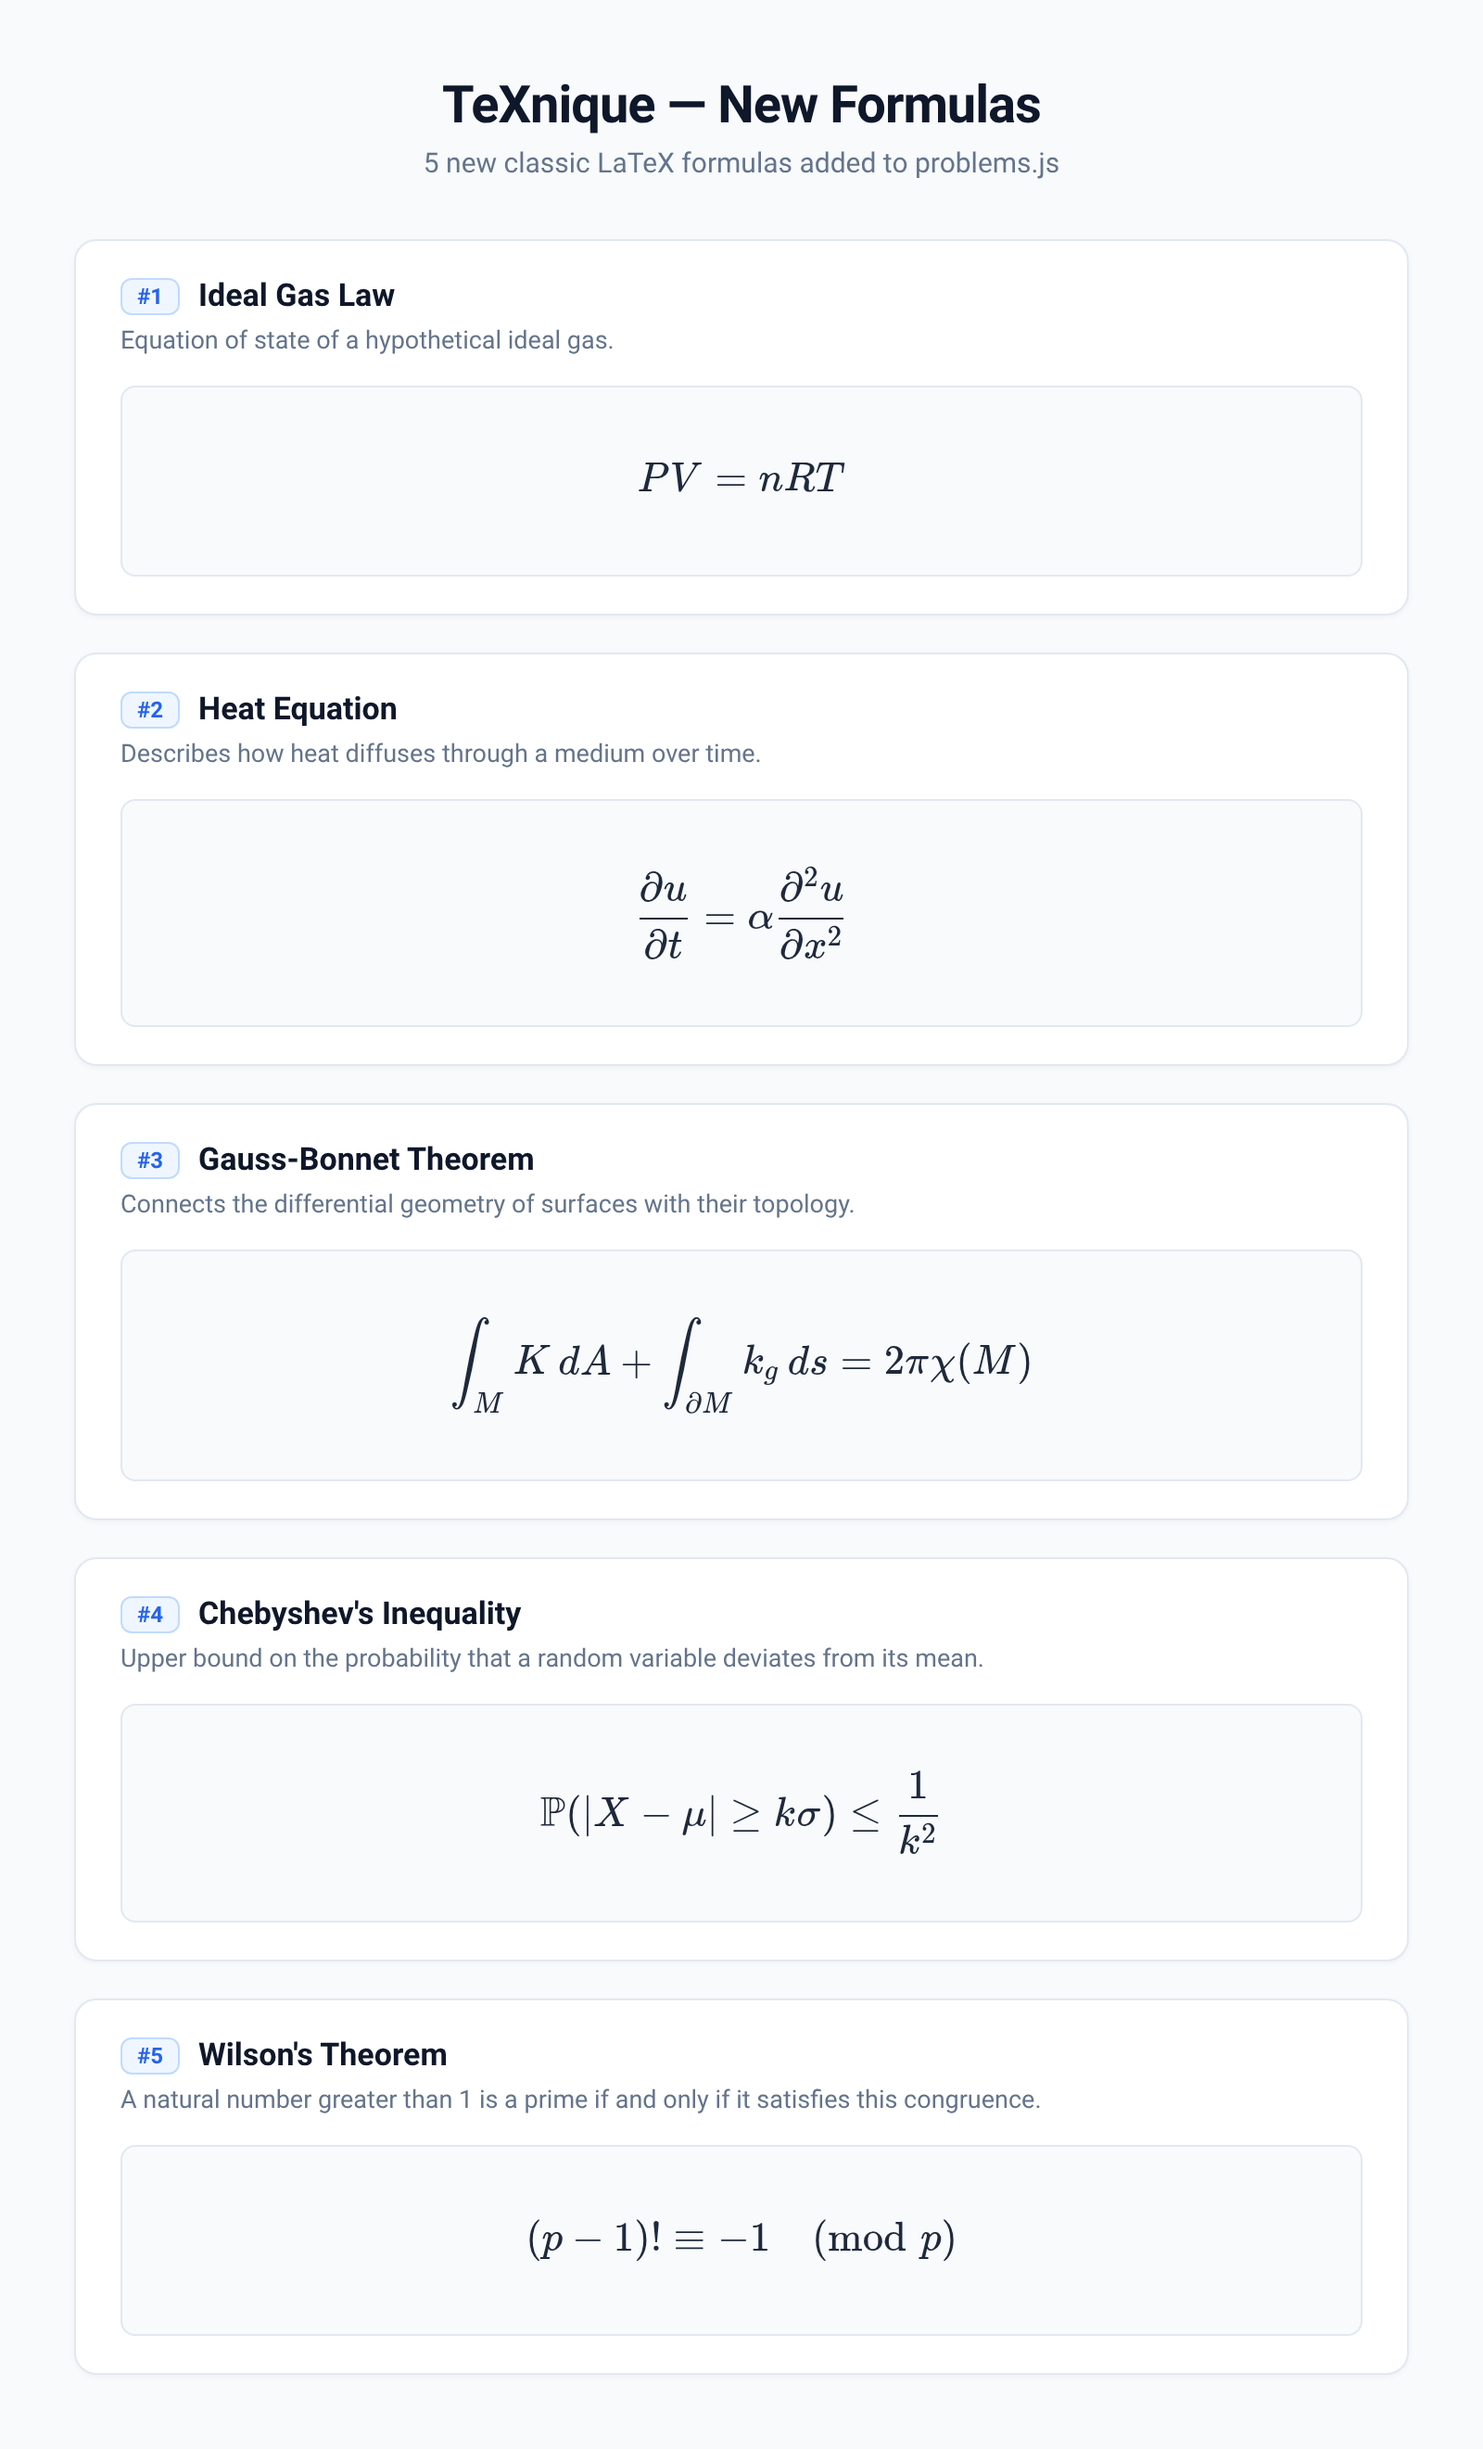
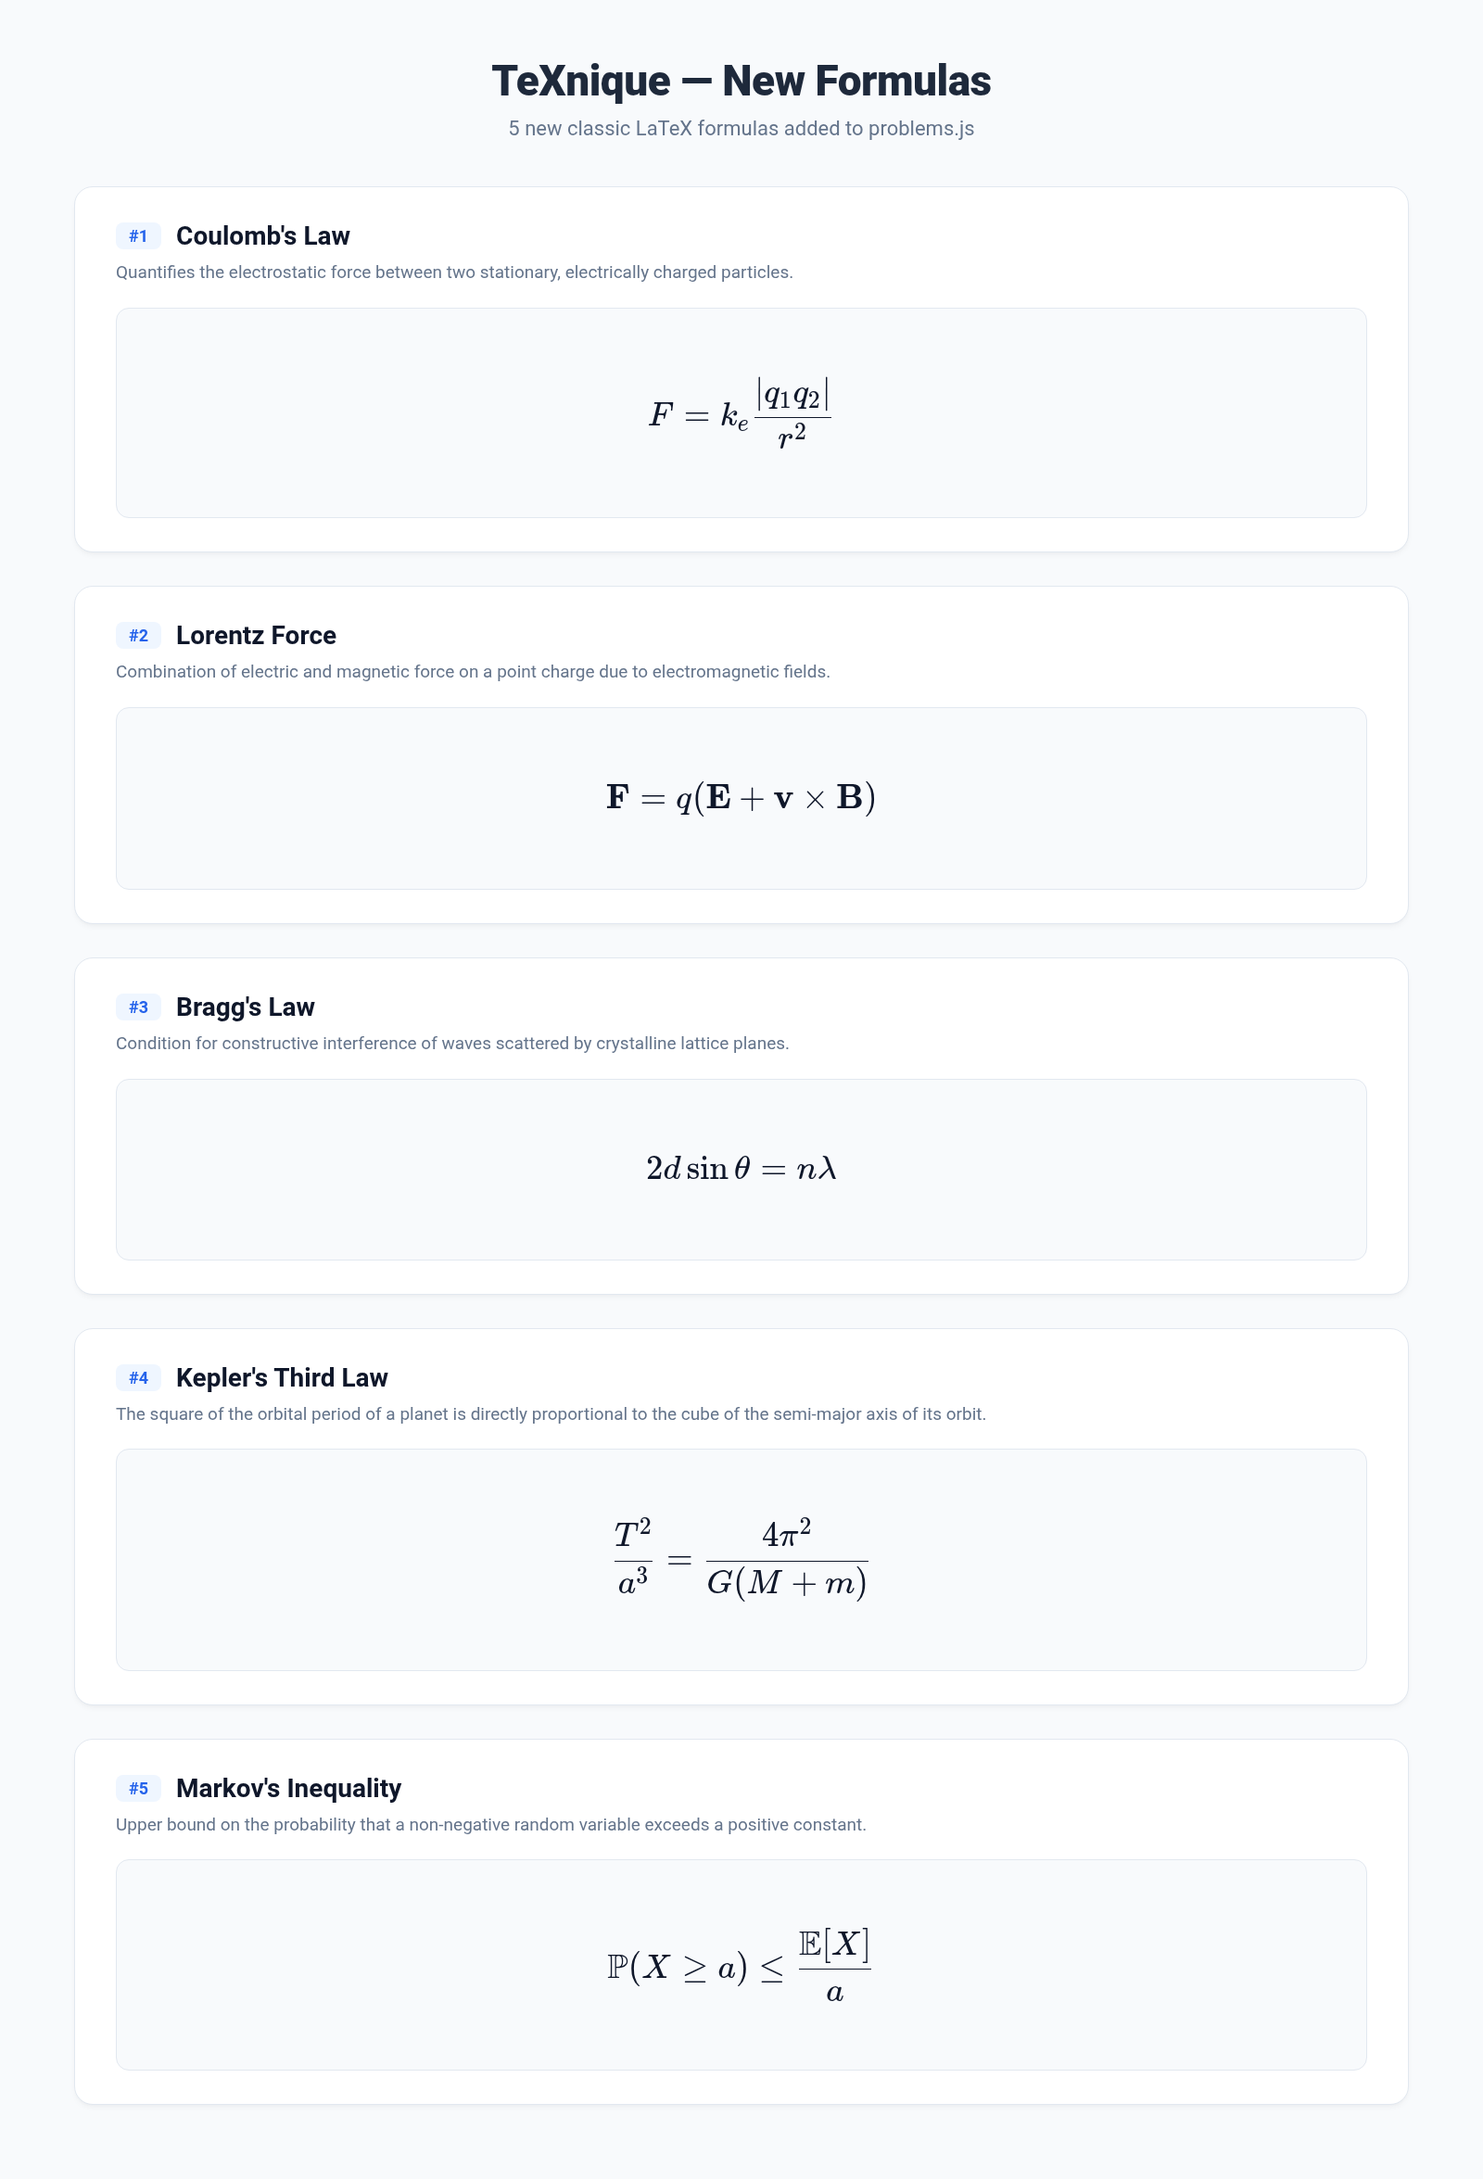
Add 5 new formulas: Coulomb's Law, Lorentz Force, Bragg's Law, Kepler's Third Law, Markov's Inequality

diff --git a/public/assets/js/problems.js b/public/assets/js/problems.js
@@ -1025,5 +1025,30 @@ let problems = [
 		"title": "Wilson's Theorem",
 		"description": "A natural number greater than 1 is a prime if and only if it satisfies this congruence.",
 		"latex": String.raw`(p - 1)! \equiv -1 \pmod{p}`
+	},
+	{
+		"title": "Coulomb's Law",
+		"description": "Quantifies the electrostatic force between two stationary, electrically charged particles.",
+		"latex": String.raw`F = k_e \frac{|q_1 q_2|}{r^2}`
+	},
+	{
+		"title": "Lorentz Force",
+		"description": "Combination of electric and magnetic force on a point charge due to electromagnetic fields.",
+		"latex": String.raw`\mathbf{F} = q(\mathbf{E} + \mathbf{v} \times \mathbf{B})`
+	},
+	{
+		"title": "Bragg's Law",
+		"description": "Condition for constructive interference of waves scattered by crystalline lattice planes.",
+		"latex": String.raw`2d \sin\theta = n\lambda`
+	},
+	{
+		"title": "Kepler's Third Law",
+		"description": "The square of the orbital period of a planet is directly proportional to the cube of the semi-major axis of its orbit.",
+		"latex": String.raw`\frac{T^2}{a^3} = \frac{4\pi^2}{G(M + m)}`
+	},
+	{
+		"title": "Markov's Inequality",
+		"description": "Upper bound on the probability that a non-negative random variable exceeds a positive constant.",
+		"latex": String.raw`\mathbb{P}(X \ge a) \le \frac{\mathbb{E}[X]}{a}`
 	}
 ];
